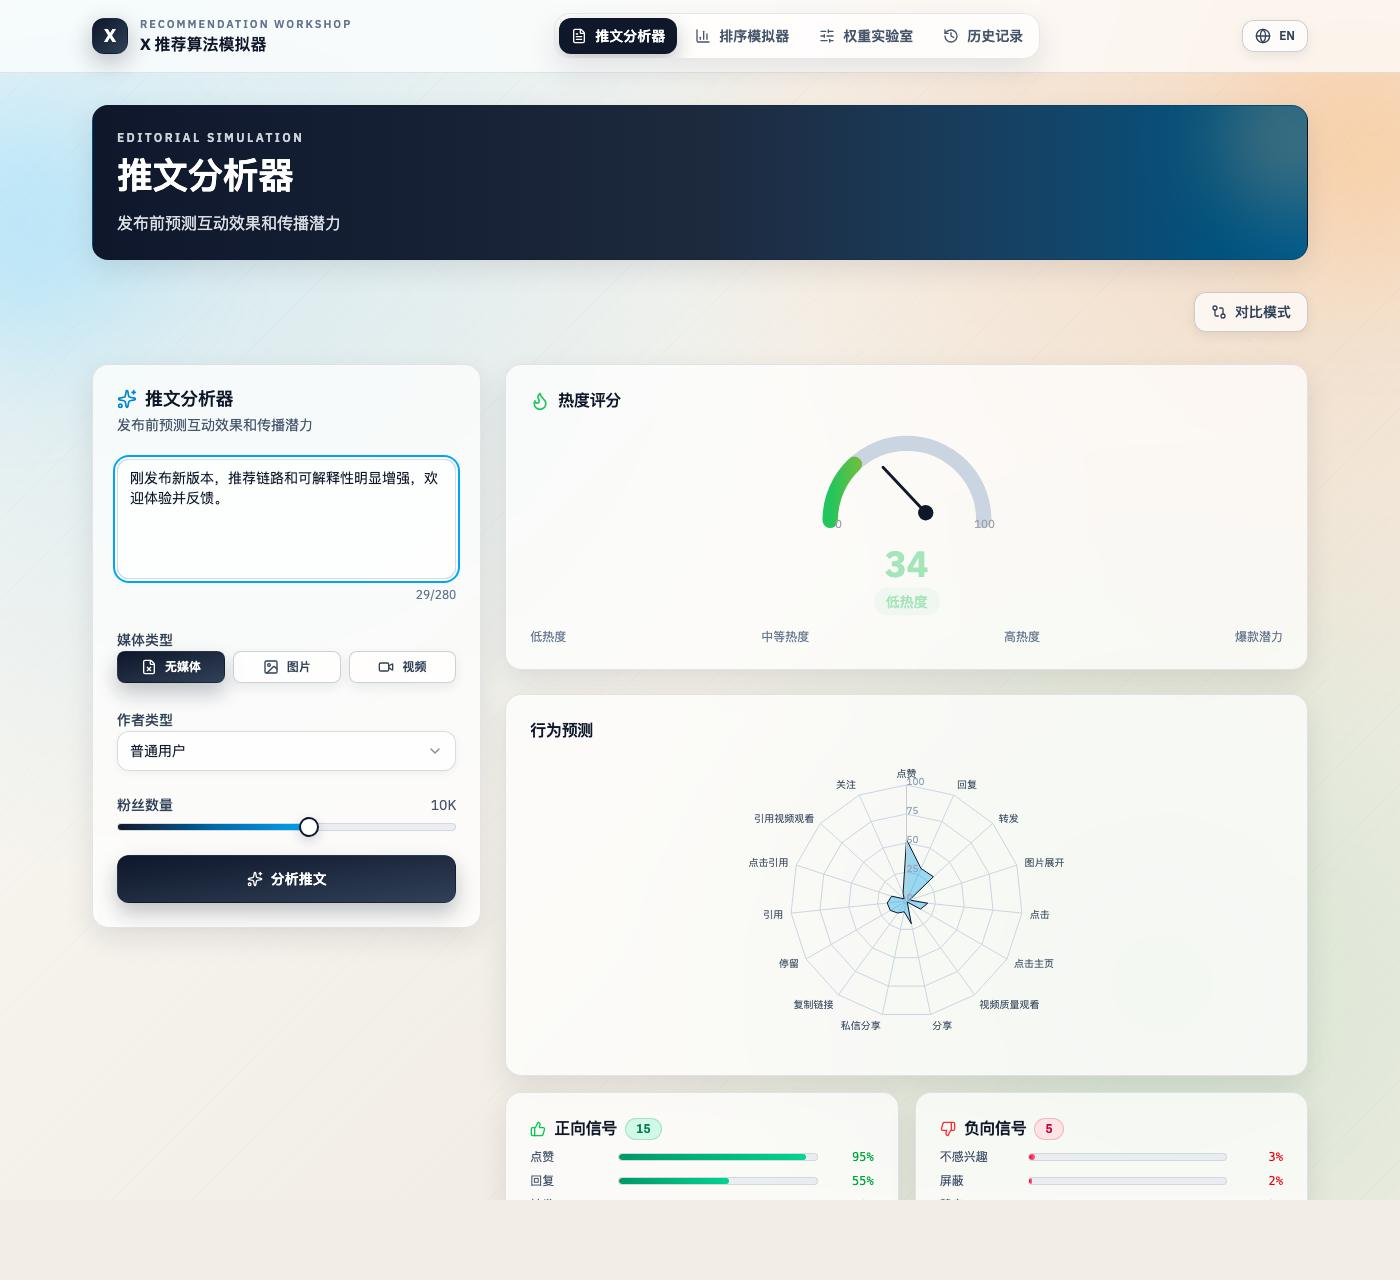
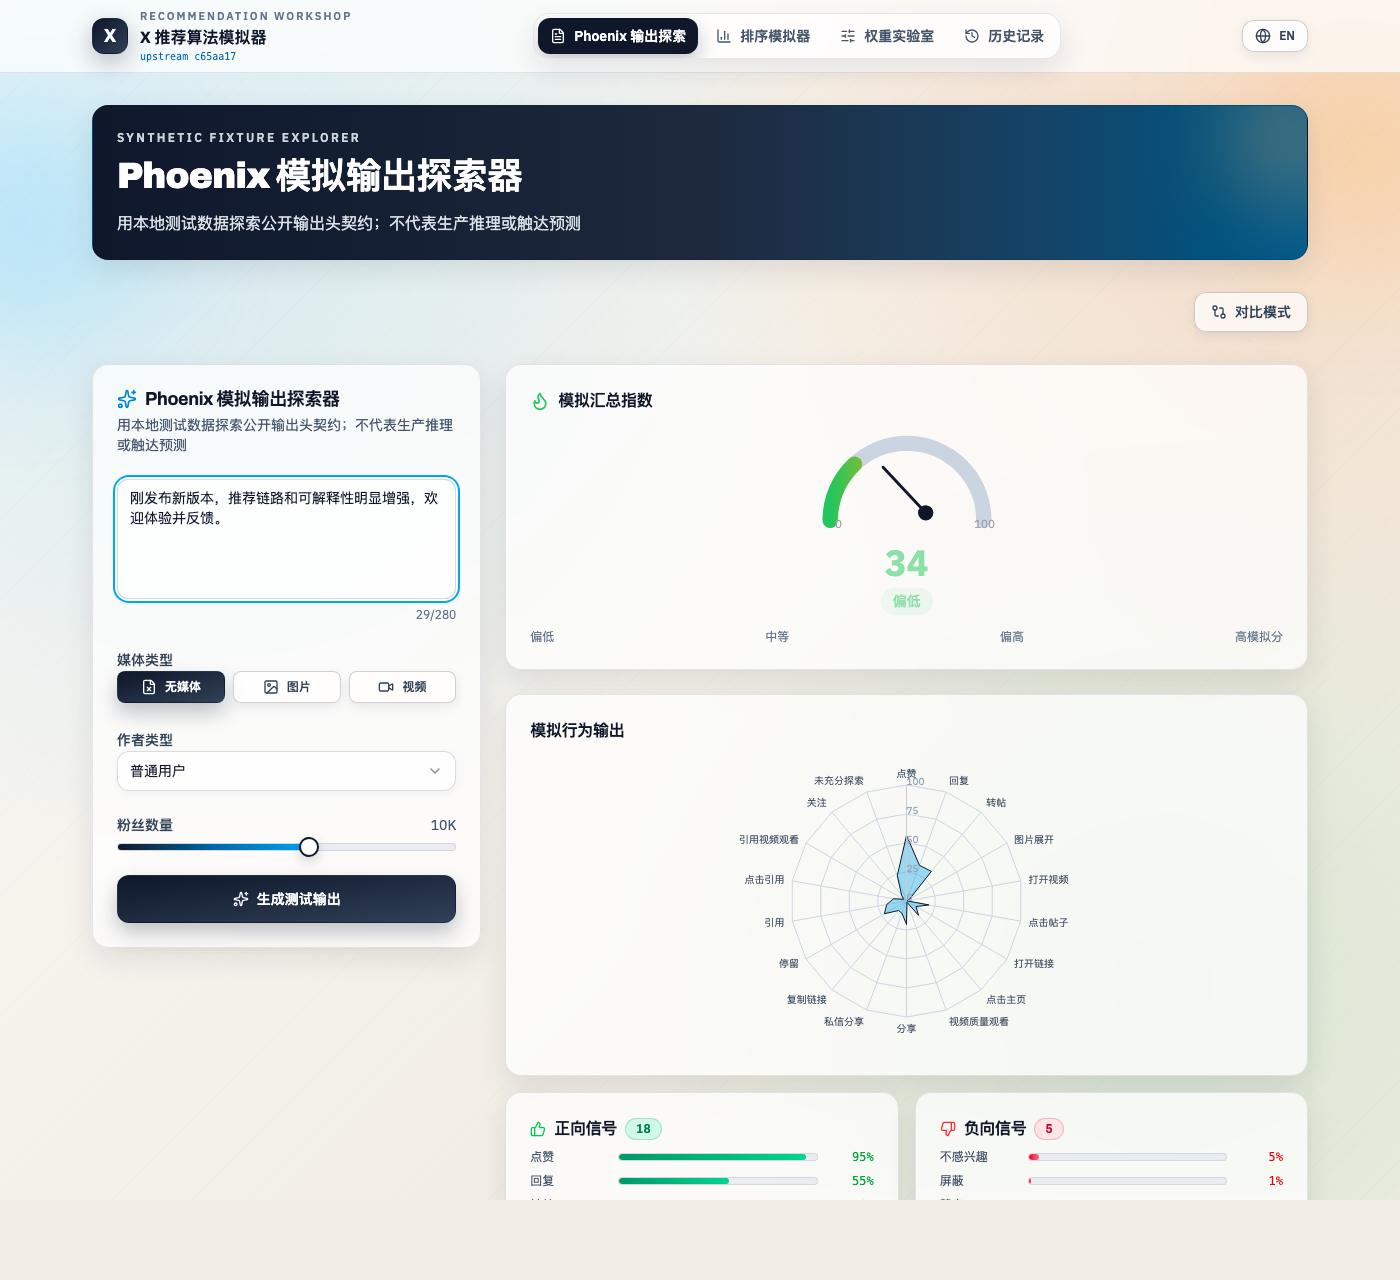
docs: streamline README and refresh screenshots
Restore concise before/current interface comparisons.

Regenerate the English and Chinese interaction screenshots from the current pipeline.

Use stable final-timeline elements in the screenshot verifier.

diff --git a/README.md b/README.md
@@ -1,104 +1,87 @@
 # X Algorithm Simulator
 
-An interactive, deterministic simulator for studying the public X recommendation algorithm.
+Interactive simulator for the public X recommendation pipeline.
 
-用于理解 X 公开推荐算法的交互式确定性模拟器。
+用于理解 X 公开推荐流程的交互式模拟器。
 
-[English](#english) · [简体中文](#简体中文)
+Pinned to [`xai-org/x-algorithm@c65aa17`](https://github.com/xai-org/x-algorithm/tree/c65aa179db7bdd61e2c2821eac87f208a105c053) · [English](#english) · [简体中文](#简体中文)
+
+## Interface Comparison / 界面对比
+
+The current screenshots were regenerated from this version. / 当前截图由本版本重新生成。
+
+<table>
+  <tr>
+    <th>Page / 页面</th>
+    <th>Before / 之前</th>
+    <th>Current / 当前</th>
+  </tr>
+  <tr>
+    <td>Output Explorer<br>输出探索</td>
+    <td><img src="docs/screenshots/before-analyzer-en.jpg" alt="Output Explorer before" width="420"></td>
+    <td><img src="docs/screenshots/after-analyzer-result-en.jpg" alt="Output Explorer current" width="420"></td>
+  </tr>
+  <tr>
+    <td>Ranking Simulator<br>排序模拟</td>
+    <td><img src="docs/screenshots/before-simulator-en.jpg" alt="Ranking Simulator before" width="420"></td>
+    <td><img src="docs/screenshots/after-simulator-final-en.jpg" alt="Ranking Simulator current" width="420"></td>
+  </tr>
+</table>
+
+More screenshots: [`docs/screenshots`](docs/screenshots)
 
 ## English
 
 ### Project Description
 
-The simulator is pinned to [`xai-org/x-algorithm@c65aa17`](https://github.com/xai-org/x-algorithm/tree/c65aa179db7bdd61e2c2821eac87f208a105c053), released on 2026-08-14. Production experiments can override published defaults; this project models only the public primary default path at that commit.
-
-It is an educational simulator, not a production recommender, and it cannot predict real reach or engagement.
+Visualizes the public primary default path at upstream commit `c65aa17`. It uses deterministic local fixtures and cannot predict production reach or engagement.
 
 ### Features
 
-- Scored Posts: 17 Query Hydrators, 7 Candidate Sources, 12 Candidate Hydrators, 18 pre-scoring Filters, PhoenixScorer, RankingScorer, VMRanker DPP, TopK 50, 6 post-selection Hydrators, 3 post-selection Filters, a final result size of 35, and 8 registered Side Effects.
-- Ranking: 26 Phoenix output heads, published default weights, VQV duration gating, negative-score offset, author cold start, author diversity, out-of-network rescoring, and DPP selection.
-- For You: 2 Query Hydrators, 7 Sources, PushToHome deduplication, `PartitionOrganicAdsBlender`, feed-module insertion order, and 9 registered Side Effects.
-- Safety: published Visibility Filtering rules with allow/interstitial/drop outcomes, ancillary-post evaluation, ad brand-safety verdicts, and adjacent-content constraints.
-- Interface: Tweet Analyzer, Ranking Simulator, Weight Lab, and local History views in English and Simplified Chinese.
+- Step through the Scored Posts and For You pipelines.
+- Explore 26 Phoenix outputs, ranking weights, filters, visibility, brand safety, and VMRanker DPP.
+- Compare fixture outputs, tune weights, and keep local history in English or Chinese.
 
-Primary upstream references:
-
-- [Scored Posts pipeline](https://github.com/xai-org/x-algorithm/blob/c65aa179db7bdd61e2c2821eac87f208a105c053/home-mixer/candidate_pipeline/phoenix_candidate_pipeline.rs)
-- [RankingScorer](https://github.com/xai-org/x-algorithm/blob/c65aa179db7bdd61e2c2821eac87f208a105c053/home-mixer/scorers/ranking_scorer.rs)
-- [AuthorColdStart](https://github.com/xai-org/x-algorithm/blob/c65aa179db7bdd61e2c2821eac87f208a105c053/home-mixer/scorers/author_cold_start.rs)
-- [VMRanker DPP](https://github.com/xai-org/x-algorithm/blob/c65aa179db7bdd61e2c2821eac87f208a105c053/vm-ranker/dpp.rs)
-- [For You pipeline](https://github.com/xai-org/x-algorithm/blob/c65aa179db7bdd61e2c2821eac87f208a105c053/home-mixer/candidate_pipeline/for_you_candidate_pipeline.rs)
-
-### Explicit Boundaries
-
-- Phoenix outputs are deterministic local fixtures; no production model is called.
-- Candidate retrieval, social graph, user features, visibility services, and ads use explicit local fixtures. Missing data is not inferred from unrelated fields.
-- Muted-keyword and ad-keyword matching use a deterministic local tokenizer. The public repository does not include the `xai_post_text` implementation, so Unicode and multilingual tokenization are not guaranteed to match production.
-- The cached path starts at the published 500-post threshold. Cached, seen, impressed, and served IDs remain independent.
-- DPP follows the public algorithm but uses local fixture vectors; missing vectors receive deterministic fallback vectors for reproducibility.
-- Side Effects show registered integration points and item counts; they do not claim that external writes ran.
-- Default-off or experimental branches such as TweetMixer, Phoenix MoE, MPN, and dwell-regret are registered as unsupported rather than replaced with fabricated output.
+Production retrieval, models, social graph, safety services, and ads are not included. The public repository also omits `xai_post_text`, so local multilingual tokenization is not guaranteed to match production.
 
 ### Quick Start
 
-Prerequisites: Node.js and npm.
+Requires Node.js and npm.
 
 ```bash
+git clone https://github.com/lingengyuan/x-algorithm-simulator.git
+cd x-algorithm-simulator
 npm install
 npm run dev
 ```
 
-Open the local address printed by Vite.
-
 ### Skill Catalog
 
-This repository does not package Codex skills. Its user-facing areas are:
-
-- `/` — Tweet Analyzer
-- `/simulator` — Ranking Simulator
-- `/weights` — Weight Lab
-- `/history` — local analysis History
+This is a web app, not a Codex skill package. Routes: `/`, `/simulator`, `/weights`, `/history`.
 
 ### Project Structure
 
-```text
-src/data/upstreamSnapshot.ts    pinned commit, public defaults, component gates
-src/data/upstreamPolicyData.ts  public Topic taxonomy and Brazil election list
-src/core/pipeline.ts            Scored Posts and For You execution trace
-src/core/filters/               pre-scoring and post-selection filters
-src/core/scorers/               ranking, cold start, diversity, OON, and DPP
-src/core/visibility.ts          visibility rules and three-state outcomes
-src/core/feed.ts                brand safety and final feed blending
-src/core/tweetTypeMetrics.ts    public TweetTypeMetrics bitset encoding
-src/core/upstreamParity.test.ts executable upstream parity regression suite
-```
+Core references: [`upstreamSnapshot.ts`](src/data/upstreamSnapshot.ts), [`upstreamPolicyData.ts`](src/data/upstreamPolicyData.ts), [`pipeline.ts`](src/core/pipeline.ts), and [`upstreamParity.test.ts`](src/core/upstreamParity.test.ts).
 
 ### Configuration
 
-No environment variables, credentials, or external services are required. Published defaults live in `src/data/upstreamSnapshot.ts`; simulator inputs live in explicit local fixtures.
+No environment variables, credentials, or external services are required.
 
 ### Development and Testing
 
 ```bash
-npm run lint     # ESLint
-npm run test     # Vitest upstream parity suite
-npm run build    # TypeScript and production Vite build
-npm run check    # lint + test + build
-npm run preview  # preview an existing production build
+npm run check
 ```
+
+Runs ESLint, Vitest, TypeScript, and the production build. The current parity suite and full bilingual screenshot flow have been verified.
 
 ### Contributing
 
-Keep behavior tied to a pinned upstream commit, add a regression test for every behavior change, and document any boundary that cannot be verified from the public repository.
+Pin upstream changes and add a regression test for every behavior change.
 
 ### Maintenance Guide
 
-1. Pin the new upstream commit instead of following a floating branch.
-2. Compare component names, order, gates, types, constants, and algorithm behavior.
-3. Update `upstreamSnapshot.ts`, public policy data, and the affected implementation.
-4. Add or update parity tests for every behavior change.
-5. Run `npm run check`, then perform Standards and Spec reviews.
+Update the snapshot, implementation, tests, and screenshots together. Screenshot command: `node scripts/capture-screenshots.mjs` with the app running on port `4173`.
 
 ### License
 
@@ -108,95 +91,54 @@ Keep behavior tied to a pinned upstream commit, add a regression test for every 
 
 ### 项目说明
 
-模拟器固定对齐 2026-08-14 发布的 [`xai-org/x-algorithm@c65aa17`](https://github.com/xai-org/x-algorithm/tree/c65aa179db7bdd61e2c2821eac87f208a105c053)。生产实验可能覆盖公开默认值；本项目只模拟该提交公开的主默认路径。
-
-这是学习用模拟器，不是生产推荐器，也不能预测真实曝光或互动。
+可视化上游提交 `c65aa17` 公开的主默认路径。项目使用确定性本地测试数据，不能预测生产环境的真实曝光或互动。
 
 ### 功能特性
 
-- Scored Posts：17 个 Query Hydrator、7 个 Candidate Source、12 个 Candidate Hydrator、18 个预评分 Filter、PhoenixScorer、RankingScorer、VMRanker DPP、TopK 50、6 个后选择 Hydrator、3 个后选择 Filter、最终 35 条结果和 8 个 Side Effect 登记点。
-- 排序：26 个 Phoenix 输出头、公开默认权重、VQV 时长门控、负分偏移、作者冷启动、作者多样性、关注外重评分和 DPP 选择。
-- For You：2 个 Query Hydrator、7 个 Source、PushToHome 去重、`PartitionOrganicAdsBlender`、模块插入顺序和 9 个 Side Effect 登记点。
-- 安全：公开的 Visibility Filtering 规则、allow/interstitial/drop 三态结果、关联帖评估、广告品牌安全 verdict 和相邻内容约束。
-- 界面：提供中英文 Tweet Analyzer、Ranking Simulator、Weight Lab 和本地 History 页面。
+- 逐步查看 Scored Posts 和 For You 流程。
+- 探索 26 个 Phoenix 输出、排序权重、过滤、可见性、品牌安全和 VMRanker DPP。
+- 对比测试输出、实时调节权重，并保存中英文本地历史记录。
 
-主要上游依据：
-
-- [Scored Posts pipeline](https://github.com/xai-org/x-algorithm/blob/c65aa179db7bdd61e2c2821eac87f208a105c053/home-mixer/candidate_pipeline/phoenix_candidate_pipeline.rs)
-- [RankingScorer](https://github.com/xai-org/x-algorithm/blob/c65aa179db7bdd61e2c2821eac87f208a105c053/home-mixer/scorers/ranking_scorer.rs)
-- [AuthorColdStart](https://github.com/xai-org/x-algorithm/blob/c65aa179db7bdd61e2c2821eac87f208a105c053/home-mixer/scorers/author_cold_start.rs)
-- [VMRanker DPP](https://github.com/xai-org/x-algorithm/blob/c65aa179db7bdd61e2c2821eac87f208a105c053/vm-ranker/dpp.rs)
-- [For You pipeline](https://github.com/xai-org/x-algorithm/blob/c65aa179db7bdd61e2c2821eac87f208a105c053/home-mixer/candidate_pipeline/for_you_candidate_pipeline.rs)
-
-### 明确边界
-
-- Phoenix 输出值来自确定性本地测试数据；没有调用生产模型。
-- 候选召回、社交图、用户特征、可见性服务和广告等外部输入均来自显式本地测试数据；缺失数据不会由无关字段猜测。
-- MutedKeyword 与广告关键词使用本地确定性 tokenizer；公开仓库未包含 `xai_post_text` 实现，因此 Unicode 和多语言分词边界不保证与生产环境等价。
-- 缓存分支按公开的 500 条最低阈值触发；缓存候选、已看、已曝光和已下发 ID 相互独立。
-- DPP 算法与公开实现一致，但使用本地测试向量；缺失向量时使用确定性替代向量，便于复现。
-- Side Effect 只展示公开登记点和流经该阶段的条目数，不把外部写入标成已执行。
-- 未实现默认关闭或实验分支，例如 TweetMixer、Phoenix MoE、MPN 和 dwell-regret；界面只登记这些组件，不用本地候选伪造其输出。
+项目不包含生产召回、模型、社交图、安全服务和广告。公开仓库也没有 `xai_post_text`，因此本地多语言分词不保证与生产环境一致。
 
 ### 快速开始
 
-前置条件：Node.js 和 npm。
+需要 Node.js 和 npm。
 
 ```bash
+git clone https://github.com/lingengyuan/x-algorithm-simulator.git
+cd x-algorithm-simulator
 npm install
 npm run dev
 ```
 
-打开 Vite 输出的本地地址。
-
 ### 技能目录
 
-本仓库不提供 Codex Skill。面向用户的功能入口是：
-
-- `/` — Tweet Analyzer
-- `/simulator` — Ranking Simulator
-- `/weights` — Weight Lab
-- `/history` — 本地分析 History
+这是 Web 应用，不是 Codex Skill 包。页面入口为 `/`、`/simulator`、`/weights`、`/history`。
 
 ### 项目结构
 
-```text
-src/data/upstreamSnapshot.ts    固定提交、公开默认参数和组件门控
-src/data/upstreamPolicyData.ts  公开 Topic taxonomy 和 Brazil election 名单
-src/core/pipeline.ts            Scored Posts 与 For You 执行轨迹
-src/core/filters/               预评分与后选择过滤器
-src/core/scorers/               排序、冷启动、多样性、OON 和 DPP
-src/core/visibility.ts          可见性规则与三态结果
-src/core/feed.ts                品牌安全和最终 feed 混排
-src/core/tweetTypeMetrics.ts    公开 TweetTypeMetrics bitset 编码
-src/core/upstreamParity.test.ts 可执行的上游一致性回归测试
-```
+核心文件：[`upstreamSnapshot.ts`](src/data/upstreamSnapshot.ts)、[`upstreamPolicyData.ts`](src/data/upstreamPolicyData.ts)、[`pipeline.ts`](src/core/pipeline.ts) 和 [`upstreamParity.test.ts`](src/core/upstreamParity.test.ts)。
 
 ### 配置
 
-项目不需要环境变量、凭据或外部服务。公开默认值位于 `src/data/upstreamSnapshot.ts`，模拟输入来自显式本地测试数据。
+项目不需要环境变量、凭据或外部服务。
 
 ### 开发与测试
 
 ```bash
-npm run lint     # ESLint
-npm run test     # Vitest 上游一致性测试
-npm run build    # TypeScript 与 Vite 生产构建
-npm run check    # lint + test + build
-npm run preview  # 预览已有生产构建
+npm run check
 ```
+
+该命令运行 ESLint、Vitest、TypeScript 和生产构建。当前一致性测试与中英文完整截图流程均已验证。
 
 ### 贡献指南
 
-行为必须绑定固定上游提交；每项行为变更都要补回归测试；无法从公开仓库验证的边界必须写入文档。
+固定上游提交，并为每项行为变化添加回归测试。
 
 ### 维护指南
 
-1. 固定新的上游 commit，不直接跟随浮动分支。
-2. 对比组件名称、顺序、门控、类型、常量和算法行为。
-3. 更新 `upstreamSnapshot.ts`、公开 policy 数据和对应实现。
-4. 为每项行为变化添加或更新一致性测试。
-5. 运行 `npm run check`，再做 Standards 与 Spec 审查。
+同步更新快照、实现、测试和截图。截图命令：应用在 `4173` 端口运行时执行 `node scripts/capture-screenshots.mjs`。
 
 ### 许可证
 
